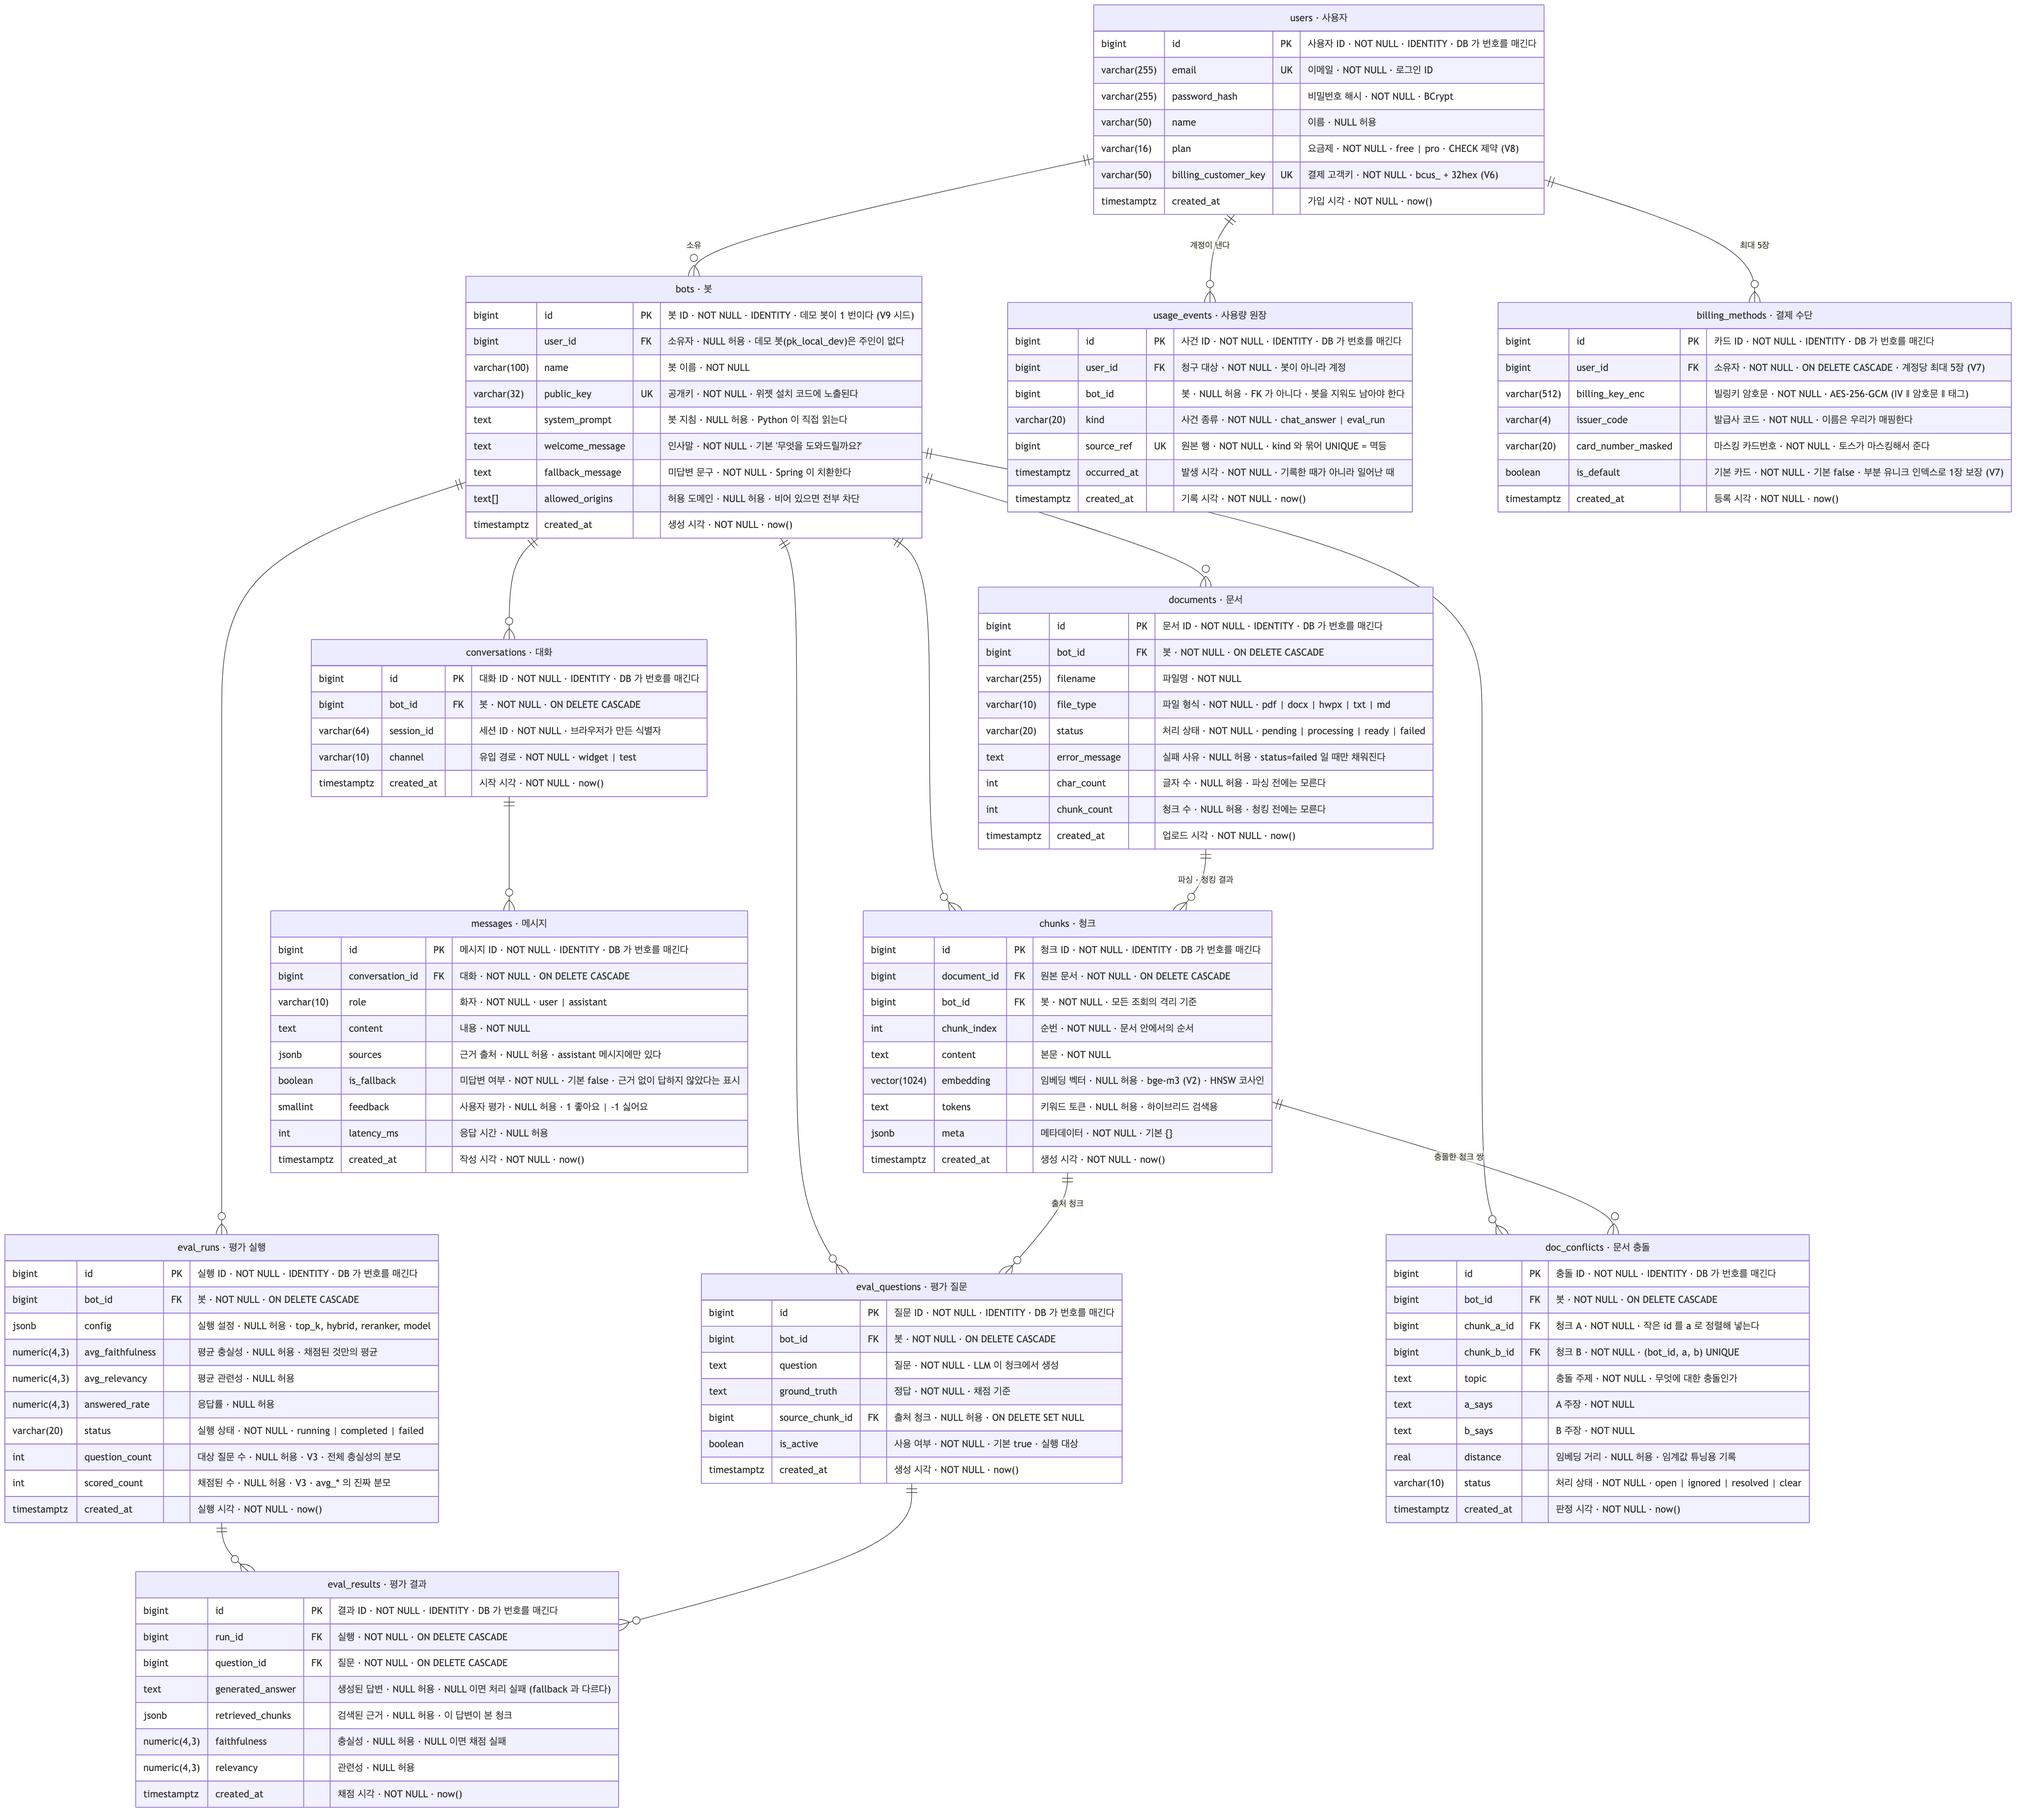
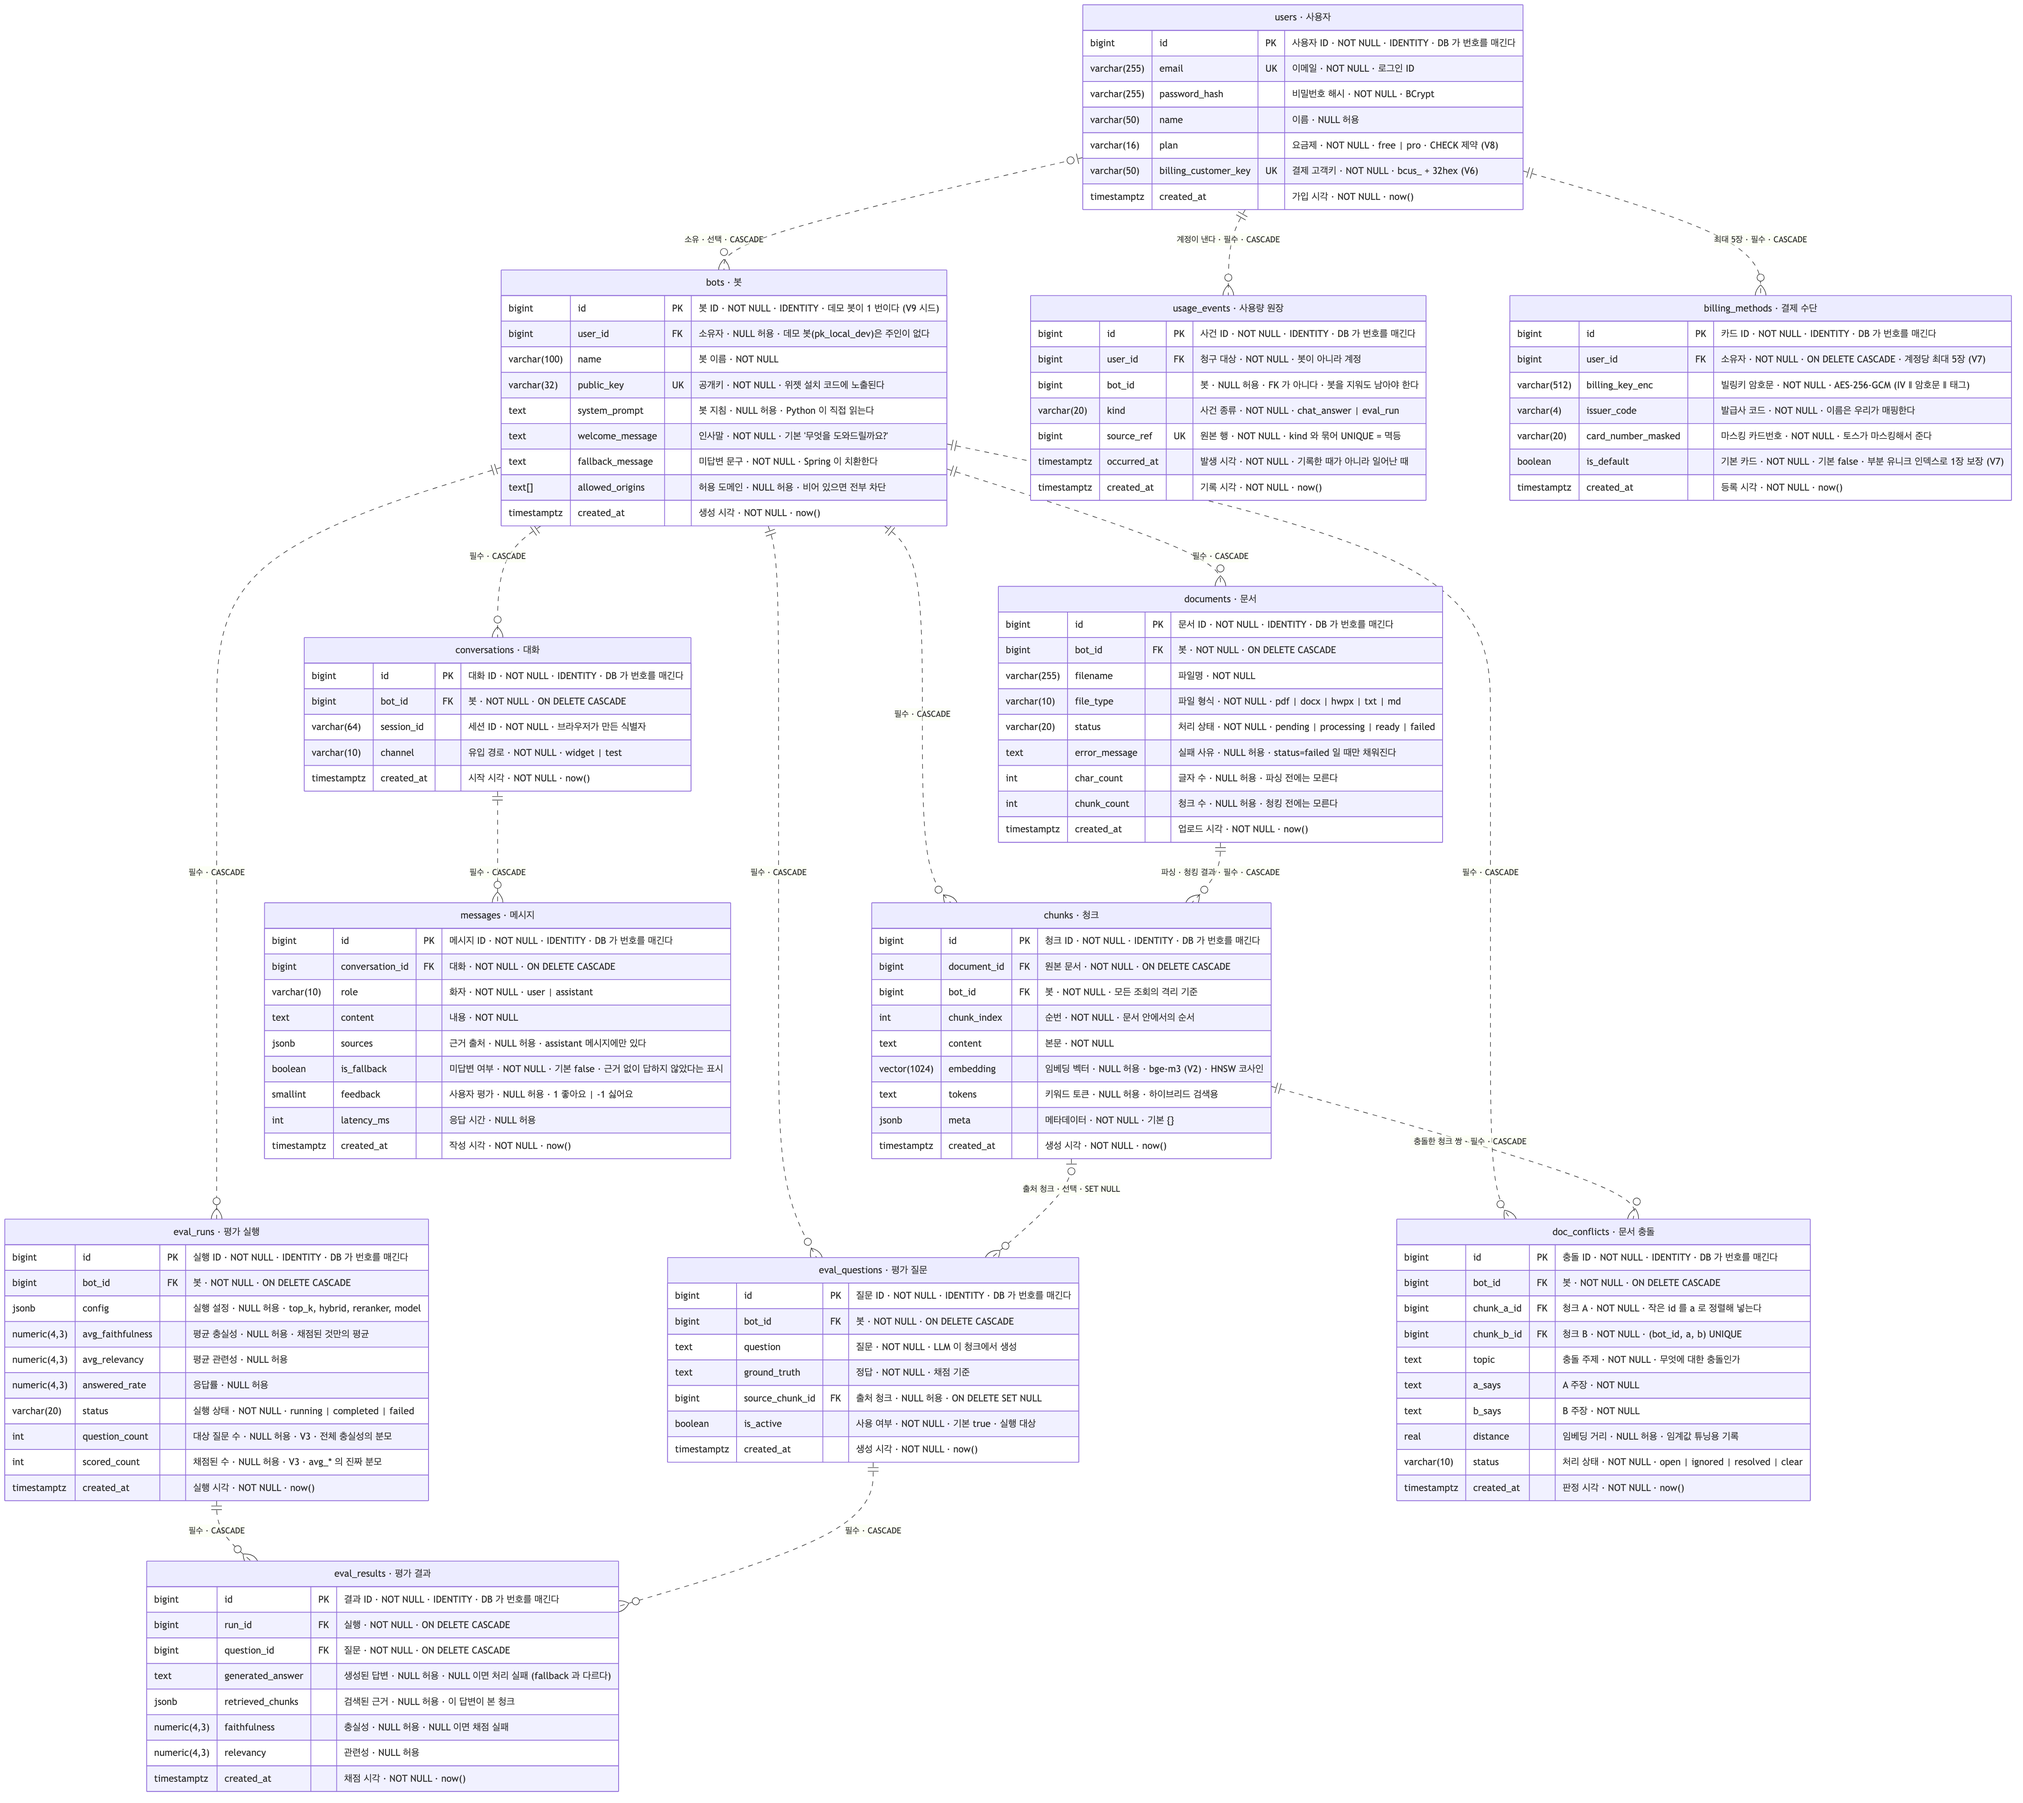
docs: ERD 관계를 까마귀발 표기로 바꾸고 식별 여부를 표시한다
- 기수를 FK 의 NULL 허용 여부에 맞춰 정확히 잡았다.
  bots.user_id 와 eval_questions.source_chunk_id 는 NULL 허용이라
  부모 쪽이 || 가 아니라 |o 다. 전에는 둘 다 || 로 그려 거짓이었다.
- 선은 15개 전부 점선(비식별)이다. 전 테이블이 대리키를 기본키로 써서
  부모 키가 자식 PK 로 올라갈 자리가 없다. 식별관계가 생길 수가 없다.
- 선이 안 갈리는 대신 존재 종속을 선 이름에 적었다
  (필수·CASCADE / 선택·CASCADE / 선택·SET NULL).
- README 에 범례를 붙였다. 전부 점선인 그림은 왜 그런지를 적지 않으면
  아무 말도 하지 않는다.

Claude-Session: https://claude.ai/code/session_01JDB22k6bovYwzBrf7n7J2b

diff --git a/README.md b/README.md
@@ -227,7 +227,31 @@ Python 은 이 둘을 건드리지 않습니다.
 
 > 각 행은 **타입 · 컬럼명 · 키(PK/FK/UK) · 한국어 이름과 NOT NULL 여부, 설명** 순입니다.
 > Flyway 마이그레이션(V1~V9)에 실제로 들어 있는 **전 컬럼**을 담았습니다.
->
+
+**표기법 — 까마귀발(IE)**
+
+| 기호 | 뜻 |
+|---|---|
+| `||` | 정확히 하나 (FK 가 `NOT NULL`) |
+| `o|` | 없거나 하나 (FK 가 `NULL` 허용) |
+| `o<` | 없거나 여럿 |
+| **점선** | **비식별관계** |
+| 실선 | 식별관계 |
+
+🔴 **이 ERD 는 15개 관계가 전부 점선입니다. 오류가 아니라 설계 결정의 결과입니다.**
+
+식별관계는 *부모의 기본키가 자식의 기본키 안으로 들어오는* 관계입니다. 그런데 이 스키마는 **모든 테이블이 대리키(`id BIGINT IDENTITY`)를 기본키로** 씁니다. 부모 키가 자식 PK 로 올라갈 자리가 없으니 **식별관계가 생길 수가 없습니다.**
+
+대리키를 고른 이유는 기본키를 "무엇을 가리키는가"에서 떼어놓기 위해서입니다. 예를 들어 `doc_conflicts` 는 `(bot_id, chunk_a_id, chunk_b_id)` 를 복합 기본키로 삼을 수도 있었지만, 그러면 **그 셋 중 하나만 바뀌어도 기본키가 바뀌고** 이 행을 가리키던 곳이 전부 따라 바뀝니다. 지금은 그 셋을 `UNIQUE` 제약으로 두어 *같은 규칙을 강제하되 기본키와는 분리*했습니다.
+
+그래서 선이 안 갈리는 대신 **존재 종속을 선 이름에 적었습니다.**
+
+- `필수 · CASCADE` — 부모 없이 못 산다. 부모를 지우면 함께 지워진다
+- `선택 · CASCADE` — 부모가 없어도 된다 (`bots.user_id`: 공개 데모 봇은 주인이 없다)
+- `선택 · SET NULL` — 부모를 지워도 살아남고 링크만 끊긴다 (`eval_questions.source_chunk_id`: 출처 청크가 사라져도 질문과 정답은 남아야 한다)
+
+⚠ **`usage_events.bot_id` 에는 선이 없습니다.** FK 를 일부러 안 걸었습니다 — 과금 원장은 append-only 라 **봇을 지워도 남아야** 하기 때문입니다. FK 를 걸면 `CASCADE` 든 `SET NULL` 이든 지난 청구 근거가 훼손됩니다.
+
 > 편집용 원본은 [`docs/images/erd.mmd`](docs/images/erd.mmd) (Mermaid) 입니다.
 > 고친 뒤 `npx -p @mermaid-js/mermaid-cli mmdc -i docs/images/erd.mmd -o docs/images/erd.png -w 2400 -s 2 -b white` 로 다시 뽑습니다.
 
